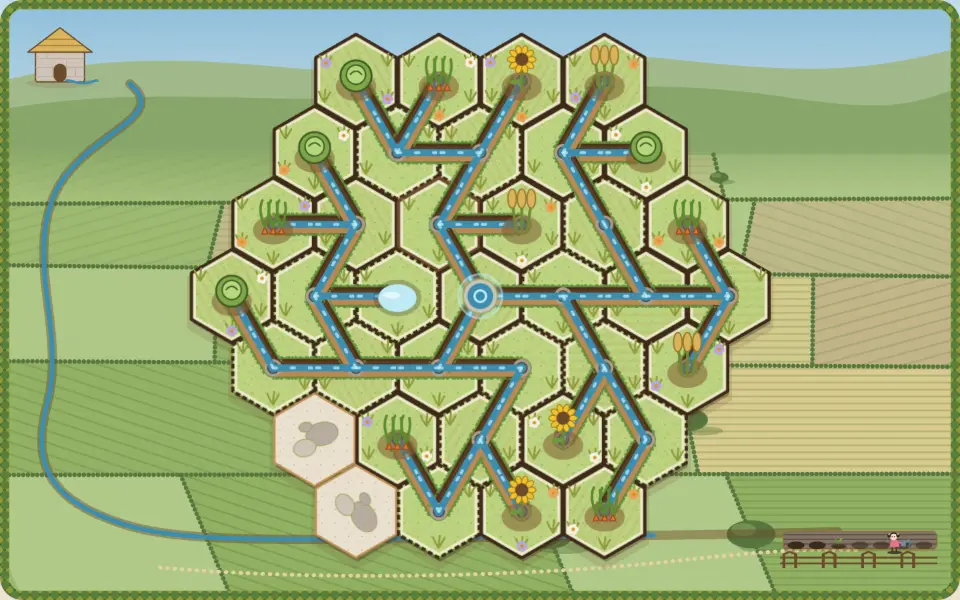
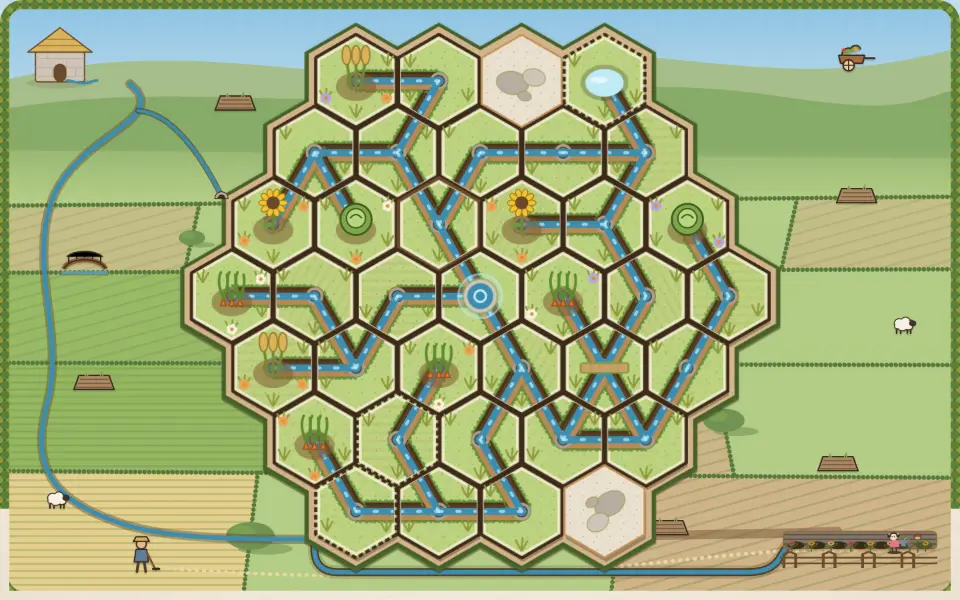
Runnel: the rain valley keeps its colour; the lesson's dim lighter; key art re-shot (item 229, slice 1); lane B notes; release lock
Claude-Session: https://claude.ai/code/session_01SimvMN1RHBGCWN7Eo7MzhN

diff --git a/games/runnel/src/valley.ts b/games/runnel/src/valley.ts
@@ -36,9 +36,10 @@ const BASE: Record<TimeOfDay, SceneLight> = {
     crop: '#b4b052', wheat: '#f0c870', fallow: '#d9a874', hedge: '#6f7434',
   },
   // Dusk: violet sky over a peach horizon, the fields gone dim and blue-grey.
+  // Plan item 229: still a picture at dusk: the greens and the wheat keep their colour under the violet.
   dusk: {
-    skyTop: '#62558a', skyLow: '#f0a98a', far: '#7a6d8a', near: '#66705e', meadow: '#8a8a78', meadowLow: '#737262',
-    crop: '#6f7a58', wheat: '#b8a07a', fallow: '#9a8070', hedge: '#455040',
+    skyTop: '#62558a', skyLow: '#f0a98a', far: '#8a789e', near: '#77866a', meadow: '#9aa07e', meadowLow: '#848b6a',
+    crop: '#7f9858', wheat: '#cfa876', fallow: '#b2896e', hedge: '#566448',
   },
 }
 
@@ -56,7 +57,8 @@ function overcast(c: string, amount: number, dim: number): string {
 export function sceneLight(sky: Pick<Sky, 'time' | 'weather'>): SceneLight {
   const base = BASE[sky.time]
   if (sky.weather === 'clear' || sky.weather === 'breeze') return { ...base }
-  const [amount, dim] = sky.weather === 'drizzle' ? [0.5, 0.1] : [0.22, 0.04]
+  // Plan item 229: rain softens the colour, it doesn't take it away (0.5 grey and 10% dark turned the valley to slate).
+  const [amount, dim] = sky.weather === 'drizzle' ? [0.3, 0.04] : [0.15, 0.02]
   const out = {} as SceneLight
   for (const k of Object.keys(base) as (keyof SceneLight)[]) out[k] = overcast(base[k], amount, dim)
   // A rain sky is a flat grey-blue whatever the hour; a cloudy one keeps a little of its colour.
@@ -85,6 +87,21 @@ export function hueSat(c: string): { hue: number; sat: number } {
   let hue = 0
   if (d) hue = max === r ? ((g - b) / d) % 6 : max === g ? (b - r) / d + 2 : (r - g) / d + 4
   return { hue: (hue * 60 + 360) % 360, sat }
+}
+
+/** OKLCH lightness (0..1) and chroma of a #rrggbb colour (plan item 229: the valley's colour floor). */
+export function oklch(c: string): { L: number; C: number } {
+  const [r, g, b] = hex(c).map((v) => {
+    const s = v / 255
+    return s <= 0.04045 ? s / 12.92 : ((s + 0.055) / 1.055) ** 2.4
+  }) as [number, number, number]
+  const l = Math.cbrt(0.4122214708 * r + 0.5363325363 * g + 0.0514459929 * b)
+  const m = Math.cbrt(0.2119034982 * r + 0.6806995451 * g + 0.1073969566 * b)
+  const s2 = Math.cbrt(0.0883024619 * r + 0.2817188376 * g + 0.6299787005 * b)
+  const L = 0.2104542553 * l + 0.793617785 * m - 0.0040720468 * s2
+  const A = 1.9779984951 * l - 2.428592205 * m + 0.4505937099 * s2
+  const B = 0.0259040371 * l + 0.7827717662 * m - 0.808675766 * s2
+  return { L, C: Math.hypot(A, B) }
 }
 
 /** The palette as the CSS custom properties the valley's classes read. */

diff --git a/games/runnel/src/styles.css b/games/runnel/src/styles.css
@@ -3762,7 +3762,8 @@ body[data-mode='practice'] #week-slot {
     stroke-dasharray: 0 7;
     vector-effect: non-scaling-stroke;
   }
-  .vl-tree { fill: color-mix(in srgb, var(--vl-hedge) var(--vk), var(--paper)); }
+  /* Plan item 229: a tree a shade lighter than its hedge, so it reads as foliage, never a dark hole. */
+  .vl-tree { fill: color-mix(in srgb, color-mix(in srgb, var(--vl-hedge) 70%, var(--vl-meadow)) var(--vk), var(--paper)); }
   .vl-tree-lit { fill: color-mix(in srgb, var(--vl-crop) 70%, var(--vl-hedge)); opacity: 0.7; }
   .vl-tree-shade { fill: color-mix(in srgb, var(--vl-hedge) 40%, transparent); }
   .vl-trail {
@@ -3977,7 +3978,8 @@ body[data-mode='practice'] #week-slot {
 /* Plan item 90: a lesson dims the valley, not the tiles, so every piece keeps its colour and rim while the target
    glows. */
 .in-lesson .cell:not(.lesson-target) .tile { opacity: 1; }
-.in-lesson .valley { filter: brightness(.8) saturate(.75); transition: filter 400ms ease; }
+/* Plan item 229: a lesson quiets the valley without greying it (.8 brightness and .75 saturation on a rain day left slate). */
+.in-lesson .valley { filter: brightness(.92) saturate(.9); transition: filter 400ms ease; }
 
 /* ---- key art (plan item 116) ---- */
 /* `?keyart`, set on <html> by main.ts: the site poster's frame. The valley, the board and the farm fill the
@@ -4271,7 +4273,7 @@ body[data-mode='practice'] #week-slot {
   z-index: auto;
   transition: filter 400ms ease;
 }
-.in-lesson .runnel-ditch-layer { filter: brightness(.8) saturate(.75); }
+.in-lesson .runnel-ditch-layer { filter: brightness(.92) saturate(.9); }
 /* the spoil thrown up either side of the cut: a soft earth shoulder in the bank's shade */
 .runnel-ditch-bank {
   fill: none;

diff --git a/tests/runnel-valley.test.ts b/tests/runnel-valley.test.ts
@@ -1,5 +1,5 @@
 import { describe, expect, it } from 'vitest'
-import { hueSat, luminance, sceneLight, valleyLayers } from '../games/runnel/src/valley'
+import { hueSat, luminance, oklch, sceneLight, valleyLayers } from '../games/runnel/src/valley'
 
 // Plan item 77: the valley is lit by the board's time and weather, so the caption and the picture agree.
 describe('Runnel valley light', () => {
@@ -45,5 +45,22 @@ describe('Runnel valley layers', () => {
   })
   it('draws rain on a drizzly day', () => {
     expect(valleyLayers('x', 'drizzle')).toContain('class="vl-rain"')
+  })
+})
+
+// Plan item 229: whatever the hour and weather the valley stays a picture: its fields keep colour (mean OKLCH chroma
+// 0.04 or more) and light (mean L 0.45 or more), and the hedges and trees never sink to a dark hole (L 0.4 or more).
+describe('Runnel valley colour floor', () => {
+  it('every time and weather keeps chroma and light', () => {
+    for (const time of ['morning', 'noon', 'golden', 'dusk'] as const)
+      for (const weather of ['clear', 'breeze', 'clouds', 'drizzle'] as const) {
+        const l = sceneLight({ time, weather })
+        const ks = ['meadow', 'meadowLow', 'crop', 'wheat', 'fallow', 'near'] as const
+        const L = ks.reduce((a, k) => a + oklch(l[k]).L, 0) / ks.length
+        const C = ks.reduce((a, k) => a + oklch(l[k]).C, 0) / ks.length
+        expect(C, `${time} ${weather} chroma`).toBeGreaterThanOrEqual(0.04)
+        expect(L, `${time} ${weather} light`).toBeGreaterThanOrEqual(0.45)
+        expect(oklch(l.hedge).L, `${time} ${weather} hedge`).toBeGreaterThanOrEqual(0.4)
+      }
   })
 })

diff --git a/PROGRESS.md b/PROGRESS.md
@@ -5,7 +5,7 @@ Short by design (SPEC 16: under 150 lines). v1's full history (M0 to M7, every s
 ## Now
 - Lane A (00:52): item 228 done (`9adcacda`: 3D rep in a roof hatch, Saltmarsh boats settle in or out of the frame, flats as silt and samphire); item 227 slice 1 (still claimed: wool coat material, baked normal maps with belt/hem/elbow folds, the umbrella arm one sleeve tube; cached per page). Left on 227: curled fingers check, cathode-perf at P. **Today's 19:51 session releases** (build has items 216-222, 225, 226, 228 since 9b4bfcf). Lane B planned items 229-234 at 01:45.
 - Critique bugs from the 09:35 shots (`e2e/screenshots/plan1103d/`): NIGHT SHIFT wordmark reportedly drops both 'H's at L and D (unconfirmed; the 14:55 D shot shows it whole). Runnel P's spring house and garden: closed 2026-11-04 (item 106).
-- Lane B (00:22): item 224 slice 3 (3D advert boards in the Ballot and the Merger), still claimed. Items 91, 126, 138, 182, 211, 222 still claimed. Fewer than 3 unclaimed items (150, 227): lane A planned at 23:00, so no planning this session.
+- Lane B (01:22): planned items 229-234 (`plan1107a`); closed old batches 91/126/138/182 as superseded; item 229 slice 1 (Runnel's rain valley keeps its colour). Items 211, 222, 224, 229 claimed.
 - Critique bugs from the 2026-11-05 09:30 shots (`e2e/screenshots/plan1105c/`, lane B): `cath-title-D` pennant hint ~13 px white on brown (1030-1280 x 800-818) and footer ~12 px (310-1130 x 872-886); `cath-title-P` small keys' labels ~12 px (85-305 x 692-735); `cath-setup-D` seed 'random' low contrast (655-840 x 795-835); `hedge-l34-2d-D` '485 coming' over a farmer (300-395 x 128-150); `hedge-menu-P` 'Brand Ambassador' on the road (10-95 x 450-480); `ns-title-D` neon sign clipped at the top (790-1150 x 0-45); `ns-play-P` FIXER tab cut (340-390 x 68-82); `games-P` hero ghosted (likely shot mid-entrance: check before fixing).
 - Critique bug seen 2026-11-04 13:30 (lane A, 1280x800): a Not-yet name cut on a 1280 desktop. Fixed 2026-11-04 14:15 (item 104 slice 1).
 - Critique bugs still open (2026-11-03 07:10 shots, `e2e/screenshots/plan1103c/`): NIGHT SHIFT P class pick blank under swiftshader (unconfirmed). Closed 2026-11-04 14:55 (lane A, checked in `plan1104e`): Cath no longer covers title-board hexes at P; Hedgerow D notebook is full; Hedgerow P map header is the act banner over the map.
@@ -37,6 +37,7 @@ None (Vercel deployed 9aee11e on 2026-10-12). (The App Store launch is postponed
 
 ## Session log (newest first, last 15)
 - **2026-11-07 00:52 lane A session:** CI green on bced1a4. Item 228 slice 2 and done; item 227 slice 1. Passing: hedgerow-farhouses3d (new boat test), -biome3d, -depot3d, -depot (phone, desktop); cathode-front, -classstage (desktop), cathode-classposes unit (was a timeout with a 1024 px map: now 512, cached); tsc, eslint. Full `npm run check` not run (time). Shots (scratchpad): h228b/h228a (3D l21 P, D, L before/after), ns227 (NS title and pick P, D, before/after1-3, coat and elbow crops).
+- **2026-11-07 01:22 lane B session:** CI green on 9adcacd. Planned 229-234; item 229 slice 1. Passing: runnel-valley unit (colour floor added), keyart-fresh (Runnel re-shot), runnel-valley, -critique91, -lesson-frame, -lesson-hand, -tiles, -ditch, -board (phone and desktop); CSS lint. Shots `e2e/screenshots/i214/rv-*`.
 - **2026-11-06 23:51 lane A session:** CI green on f7497fa (later reds were cancelled runs). Item 225 slice 2 and done; item 226 done; item 228 slice 1. Passing: role-card (new), table-hand, saving-goal, table-cath, action-hand, player-mat, partner-mat, suggest-move, critique177, desktop-no-scroll, disabled-actions (phone, desktop); site runnel-ditch (fixed URL, new layer test), runnel-garden*, -valley*, -lesson*, -practice, -win (phone, desktop); hedgerow-advice (new test), runnel unit tests, CSS lint, eslint, tsc. Full `npm run check` not run (time). Shots (scratchpad): r225 (Cathnivore D light/dark, P, every producer's role card), r226 (Runnel daily/solved/lesson/practice P and D, dark), r228 (Hedgerow l34 P and D).
 - **2026-11-07 00:22 lane B session:** CI: a9437a9 cancelled (superseded), 3de2673 green. Item 224 slice 3. Passing: hedgerow-biome3d, -dressing3d (phone and desktop); tsc, eslint. Shots `e2e/screenshots/i214/a3-*` (l75, l85 3D, P and D).
 - **2026-11-06 23:21 lane B session:** CI green on b3b7fe7. Item 224 slices 1-2. Passing: hedgerow-margins unit (billboard test added), keyart-fresh, hedgerow-field, -critique177, -depot (phone and desktop); tsc, eslint. Shots `e2e/screenshots/i214/bb-*`, `bb2-*` (l21, l34, l75, l85).
@@ -50,4 +51,3 @@ None (Vercel deployed 9aee11e on 2026-10-12). (The App Store launch is postponed
 - **2026-11-06 19:21 lane B session:** CI green on 77fb4ee. Planned items 218-222 from a subagent critique of `plan1106g`; 219 dropped on checking; item 222 slice 1. Passing: hedgerow-closeframe (phone, with the tab check); CSS lint, css-vars.
 - **2026-11-06 18:21 lane B session:** CI green on 5196403 (later reds cancelled). Item 215 done. Passing: hedgerow-closeframe (new, phone and desktop), -3dframe (incl. the l21 gate plate that failed before), -depot3d, -cath3d, -camera3d (phone); tsc, eslint, CSS lint. `hedgerow-drawcalls` P l21 635 -> 522, l34 982 -> 737. Shots `e2e/screenshots/i214` (`f215*`, `g215-l13/21/34`).
 - **2026-11-06 17:51 lane A session:** CI green on ae7b631 (03b67c5's red was a cancelled run). Item 212 slice 2 and done (`92afaa5d`); item 213 slices 1-2 and done (`5e2c4d5e`, `9c44d64a`); sound.spec phone fix. Passing: papers-placard (new), plan-strip, plan-cards, plan-corp, tooltip, rival, board-objects, csp, sound (with new score and slider tests), title, settings-board (phone and desktop); market-event-dressing but its glut/festival tests (seed-dependent, red on HEAD); sound-score (new), settings, sound-cues unit tests; CSS lint, eslint, tsc; Lighthouse mobile 86. Full `npm run check` passed (2458/2458 unit tests, fuzz, build). Shots (scratchpad): before/after/after2 (game P, D, P sheet), set/set2 (Settings P and D).
-- **2026-11-06 17:21 lane B session:** Item 214 done (`hedgerow-powerdock.spec.ts`); item 211 slices 2-3. Passing: hedgerow-powerdock (new), -tray (band-height check added), -catdock, -critique, -critique166, -critique177, -map (fade test added), -level-card (phone and desktop); cathode-classpick, -dossier, -classstage; CSS lint, css-vars, cathode-type. Shots `e2e/screenshots/i214`.

diff --git a/docs/archive/PROGRESS-v1.md b/docs/archive/PROGRESS-v1.md
@@ -3903,3 +3903,5 @@ want reminded of mid-game without leaving the Farm sheet. Full detail in DECISIO
 - **2026-11-06 14:51 lane A session:** CI green on 88caee9. Item 202 slice 4 and done (`4e62b509`); Hedgerow key art re-shot (`93e31a11`); item 205 done (`8b347b25`). Passing: hedgerow-margins (25), hedgerow-field, -depot, -critique, -flyin, -gatequeue (site phone and desktop), keyart-fresh; cathode-front (with the new eye-contrast test) and cathode-idle (42); `cathode-perf` alone within budget; eslint, tsc. Full `npm run check` not run (time); CI covers it. Shots (scratchpad): before/after l45-l95 D and P, f0-f4 (NS title and class pick faces D and P).
 - **2026-11-06 15:51 lane A session:** CI red on 8b347b2 (keyart-fresh, NIGHT SHIFT); key art re-shot (`a582a186`). Item 206 slices 1-2 and done; item 208 slices 1-2. Passing: title-sky (new, 11 incl. five sky states and four extra sizes), title, title-table, title-fit, title-bubble, accessibility, critique166, daily-ritual, daily, plan-cards (phone, phone-landscape, desktop); site hedgerow-cath3d (with the new point test), -catdock, -3dframe but the known l21 phone gate-plate test (fails the same on HEAD without this session's change); hedgerow-cath3d-figure (new), -parts, -hair; keyart-fresh, CSS lint, eslint, tsc. Full `npm run check` passed (2451/2451 unit tests, fuzz, build). Shots `t206` (title P and D, light at 6/10/17/21 h and dark, 1280x800, 1920x1080, 1024x768, 844x390), `t208` (l21 3D P and D, crops, the point).
 - **2026-11-06 16:21 lane B session:** CI: recent reds cancelled or the key-art miss lane A fixed. Item 210 done. Passing: cathode-dossier (new), cathode-classpick (contrast check made two-way), cathode-classstage (phone and desktop); CSS lint, css-vars, cathode-type. Shots `t210`.
+- **2026-11-06 16:51 lane A session:** CI green on 1af9396. Item 208 slice 3 and done (`d27b1d58`); item 209 done (`04fcf7b4`); planning (items 212-217, shots `plan1106f`, a subagent critique); item 212 slice 1 (`17e09d92`); item 217 slice 1 (`b216228b`). Passing: hedgerow-cath3d-figure (new lock test), site hedgerow-cath3d, -catdock, hedgerow-map (new item-209 test), -level-card, critique103, runnel-signboard (new gap test) (phone and desktop); market-event-dressing (new pennant test) but its glut/festival phone tests (red on HEAD too), table-cath, plan-strip, plan-cards; CSS lint, eslint, tsc. Full `npm run check` passed (2452/2452 unit tests, fuzz, build). Draw calls l21 D 643 -> 642. Shots (scratchpad): t208a/b, t209, t212, t217.
+- **2026-11-06 17:21 lane B session:** Item 214 done (`hedgerow-powerdock.spec.ts`); item 211 slices 2-3. Passing: hedgerow-powerdock (new), -tray (band-height check added), -catdock, -critique, -critique166, -critique177, -map (fade test added), -level-card (phone and desktop); cathode-classpick, -dossier, -classstage; CSS lint, css-vars, cathode-type. Shots `e2e/screenshots/i214`.

diff --git a/docs/plan/two-week-plan.md b/docs/plan/two-week-plan.md
@@ -2456,7 +2456,7 @@ The items come from fresh-eyes audits on 2026-11-01 and 2026-11-02 (items 25-32:
 - **Accept:** each point fixed or checked and left with the reason; shots before and after; the specs for each screen pass.
 - **Size:** 1
 
-## 229. [ ] Runnel: a rainy valley that stays a picture *(lane B, in progress)*
+## 229. [ ] Runnel: a rainy valley that stays a picture *(lane B, in progress)* *(slice 1, 2026-11-07 lane B: rain 0.5 grey / 10% dark -> 0.3 / 4%, clouds 0.22 / 4% -> 0.15 / 2%; dusk's fields lighter and greener; trees a shade lighter than their hedge (no dark holes); the lesson's valley dim .8/.75 -> .92/.9 (it stacked with the weather on a new player's first screen); `oklch()` and a colour-floor unit test over every time and weather; key art re-shot. Left: rain as wet sheen and puddles, the spring house's lit windows at dusk)*
 - **Why:** `plan1107a/runnel-D` (390-1410 x 20-880), `runnel-P` (5-385 x 195-775): under "Dusk, light drizzle" about 80% of the frame is flat slate grey, the fields have no crop colour, hedges are black dotted lines and the shrubs are near-black discs that read as holes ((585,355), (690,470), (725,620), (650,795) at D). Weather desaturates the valley instead of lighting it (VISION: warm paper, flat colour).
 - **Build:** weather as a light over a coloured valley: crops keep their hue (about 70% chroma) with a wet sheen and puddles catching the sky; rain as slanted streaks; dusk an amber-to-violet sky with warm rims and the spring house's windows lit; shrubs drawn with a highlight and a contact shadow, never a flat dark disc.
 - **Accept:** for every weather and time of day the valley layer's mean OKLCH chroma 0.04 or more and mean L 0.45 or more (unit, on the palette); no shrub fill under L 0.3; tiles keep 3:1 against the fields; runnel specs pass; shots P and D at drizzle, dusk and midday.
